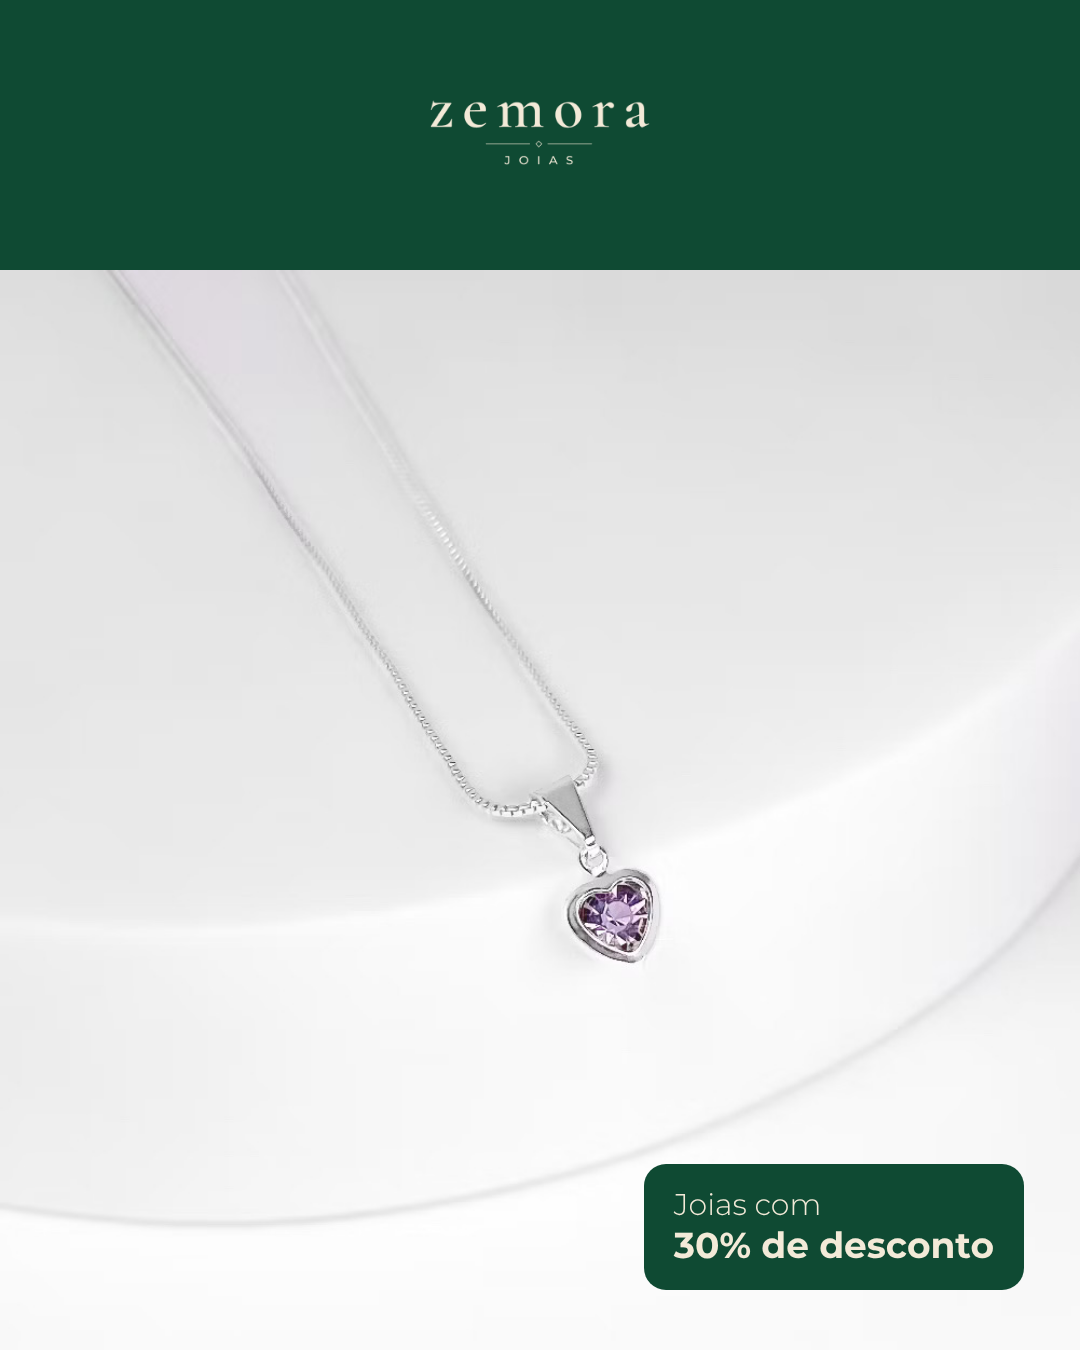
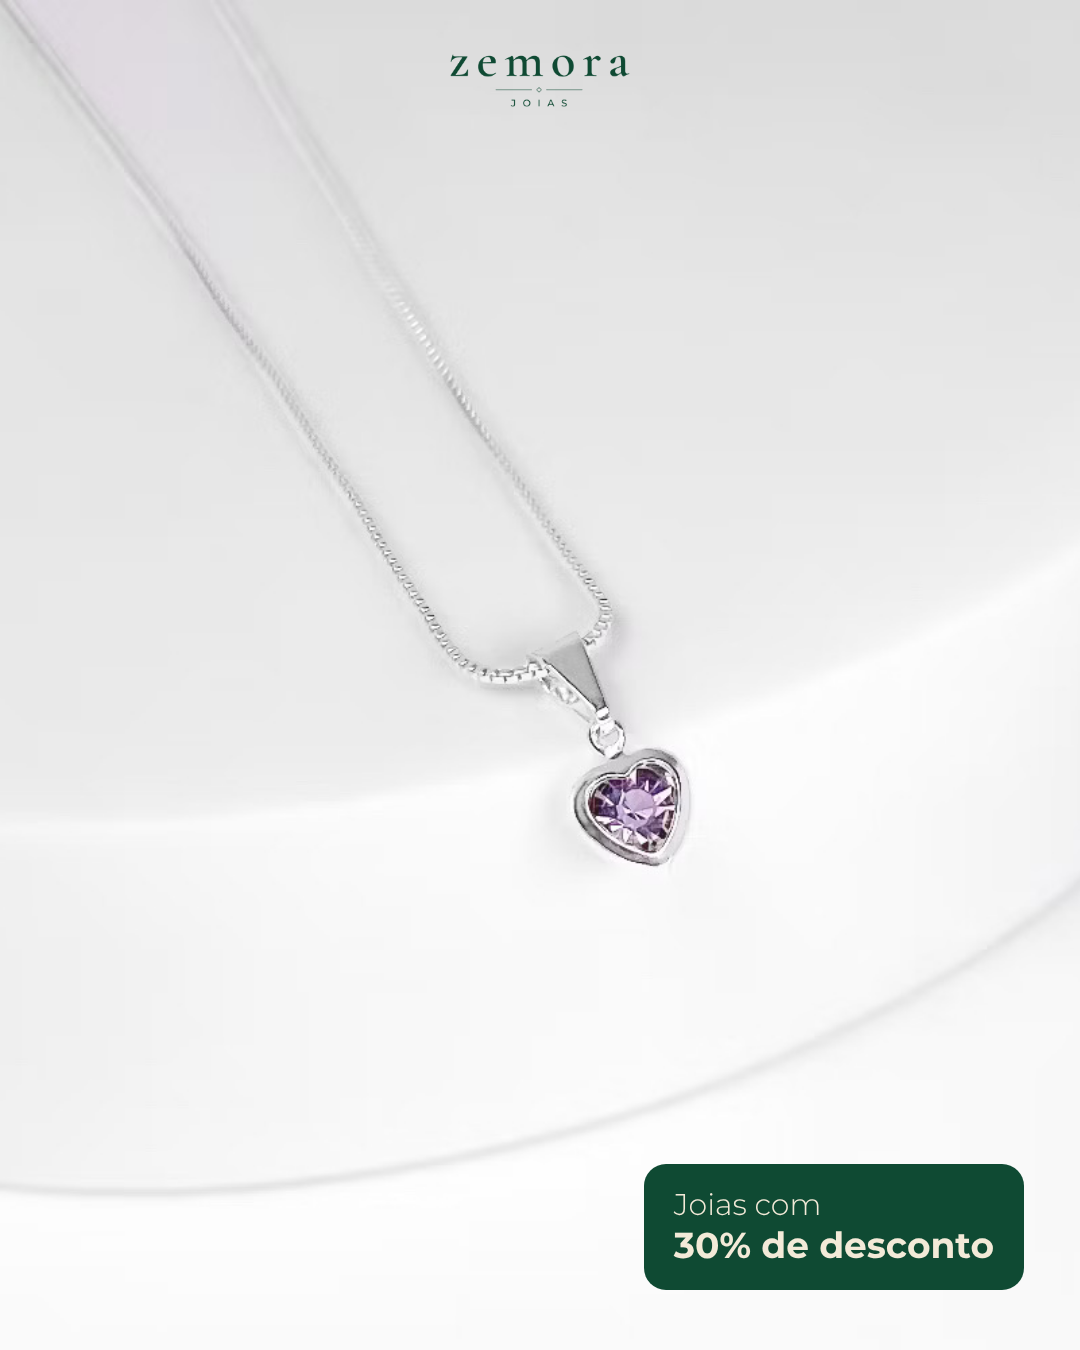
Último carrossel: cards 2 e 3 com foto em tela cheia, como o card 4
Claude-Session: https://claude.ai/code/session_01Ds4o6DPNY229NefAqtX4RB

diff --git a/cards/render-carrossel.js b/cards/render-carrossel.js
@@ -31,8 +31,8 @@ const sets={dp:[
  ],
  final:[
  {n:1,logo:'logo-zemora-verde.png',foto:'bf6-pescoco.jpg',pos:'50% 35%',v:'bottom:110px',ts:110,body:`<h1 class="dark thin">Black Friday<br><b>Zemora</b></h1><div class="sub thin-sub"><span>de 23 a 28 de novembro</span></div>`},
- {n:2,foto:'bf6-coracao.jpg',pos:'50% 50%',img:'position:absolute;left:0;top:270px;width:1080px;height:1080px;object-fit:cover',v:'top:0',ts:0,body:`<style>.logo{top:100px}.logo img{width:220px}</style><div class=\"corner\">Joias com<br><b>30% de desconto</b></div>`},
- {n:3,foto:'bf6-argolas.jpg',pos:'50% 50%',img:'position:absolute;left:0;top:270px;width:1080px;height:1080px;object-fit:cover',v:'top:0',ts:0,body:`<style>.logo{top:100px}.logo img{width:220px}</style><div class=\"corner\">Joias com<br><b>30% de desconto</b></div>`},
+ {n:2,logo:'logo-zemora-verde.png',foto:'bf6-coracao.jpg',pos:'50% 50%',v:'top:0',ts:0,body:`<div class=\"corner\">Joias com<br><b>30% de desconto</b></div>`},
+ {n:3,logo:'logo-zemora-verde.png',foto:'bf6-argolas.jpg',pos:'50% 50%',v:'top:0',ts:0,body:`<div class=\"corner\">Joias com<br><b>30% de desconto</b></div>`},
  {n:4,logo:'logo-zemora-verde.png',foto:'bf6-arvore-limpa.jpg',pos:'92% 50%',v:'top:0',ts:0,body:`<div class=\"corner\">Joias com<br><b>30% de desconto</b></div>`},
  ]};
 const set=process.argv[3]||'dp';const prefix={dp:'zemora-dourado-prata',ac:'zemora-acessorios',bf6:'zemora-bf-ofertas',precos:'zemora-precos',final:'zemora-bf-final'}[set];const cards=sets[set];
